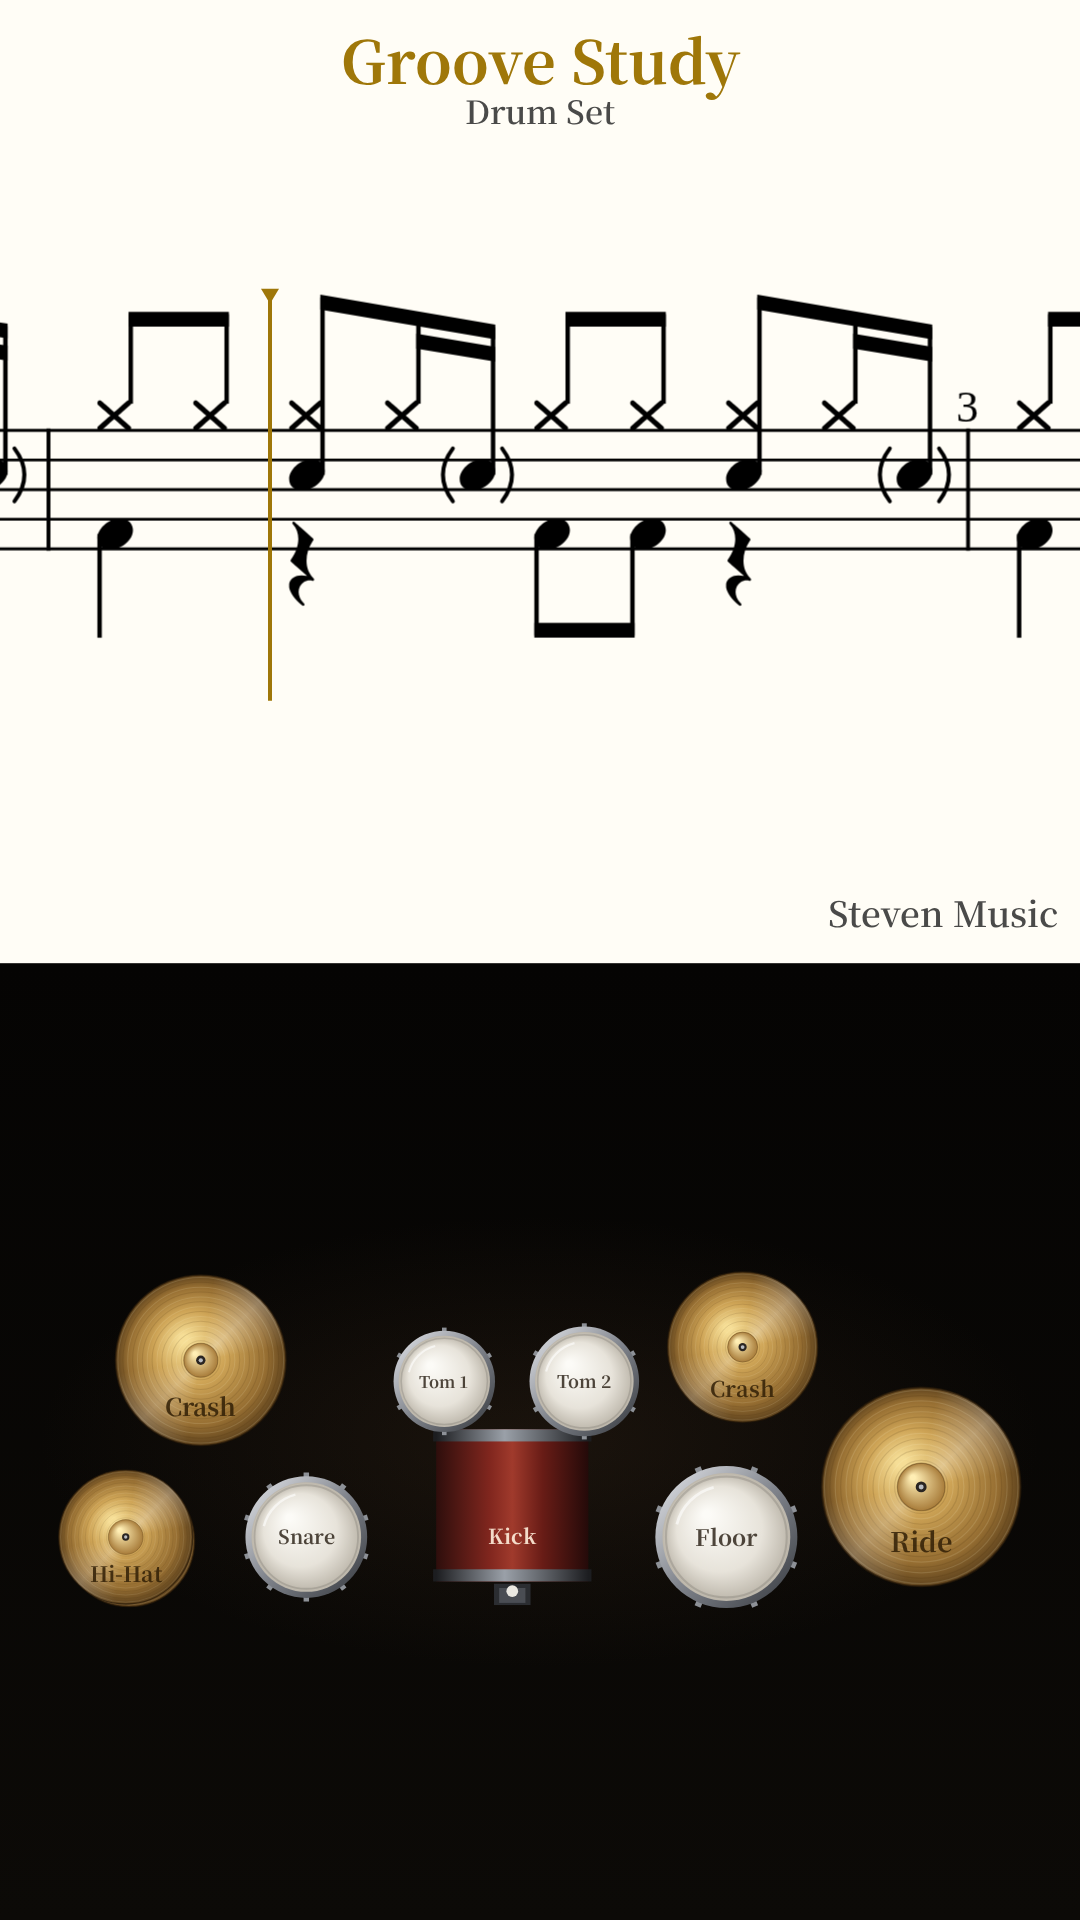
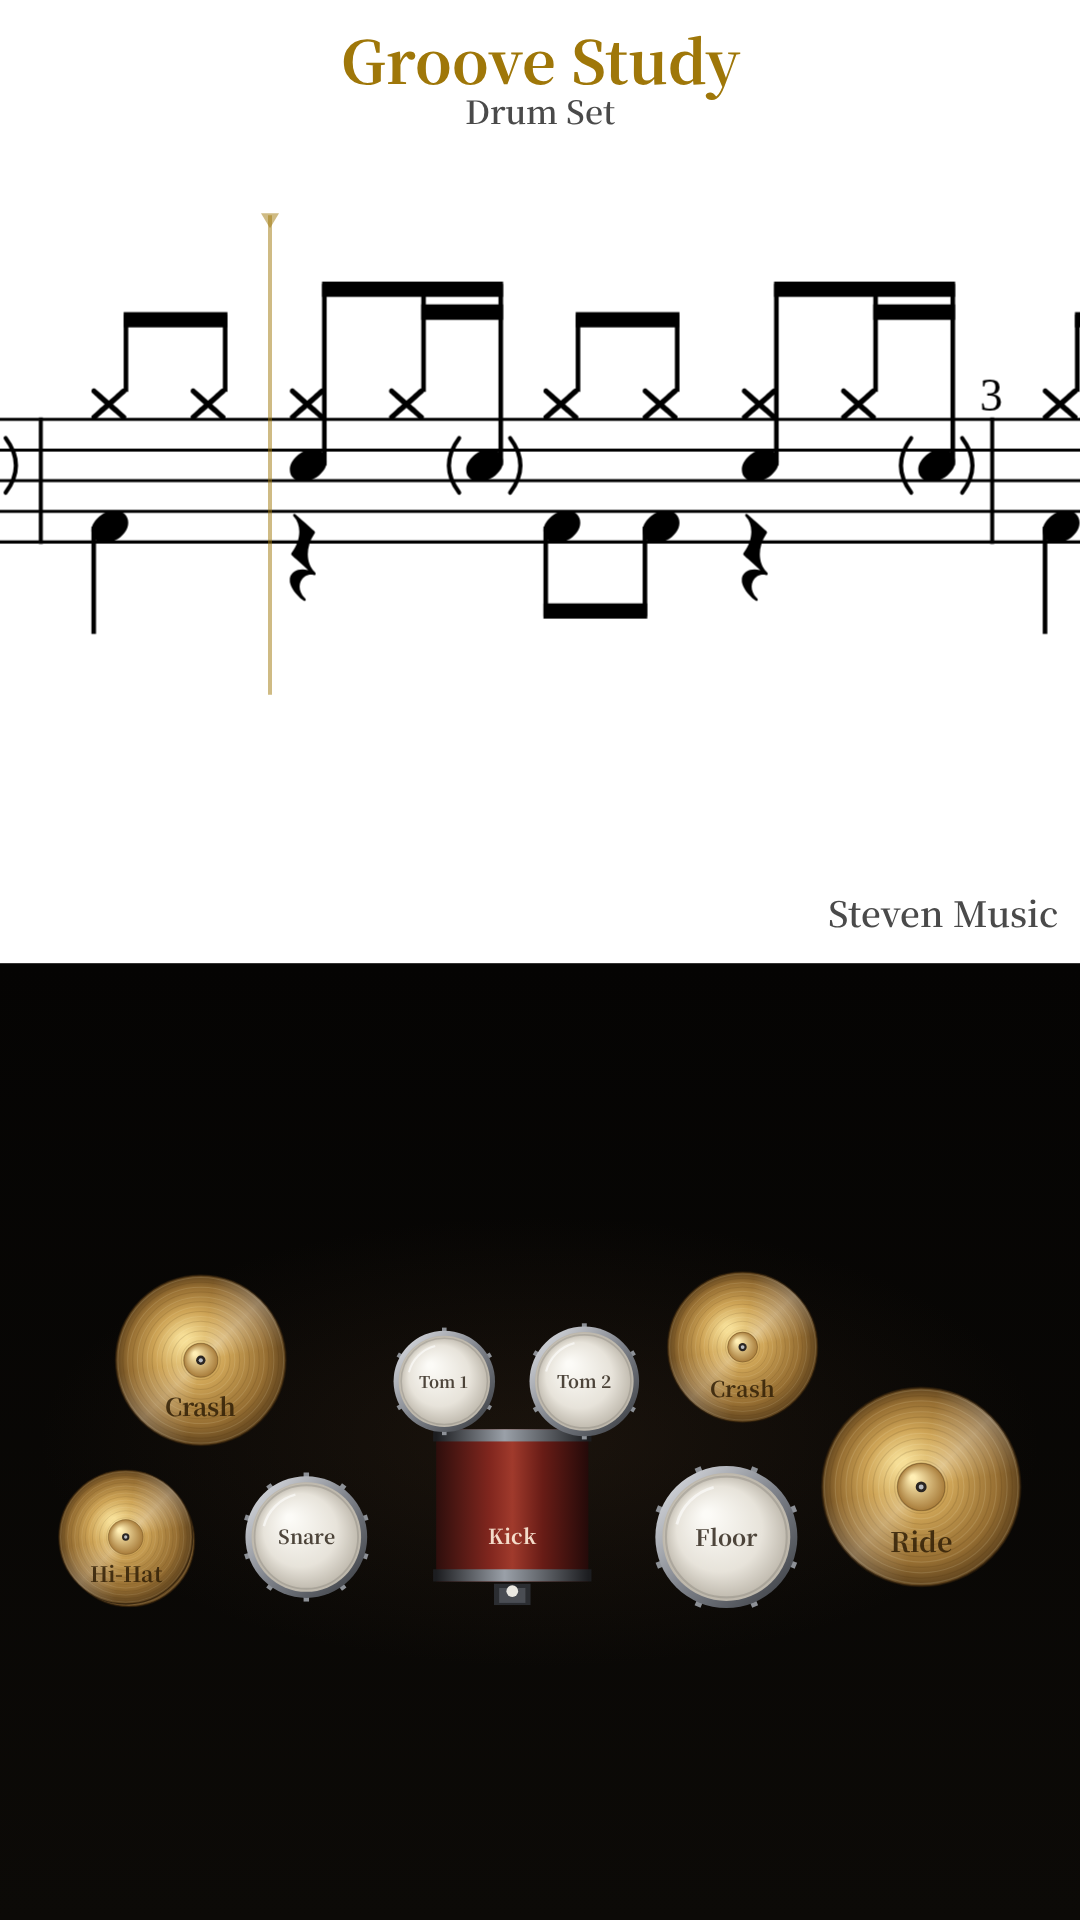
宣傳影片:第 03 段拿掉吉他(仍找不到夠好的木吉他音色),只留鋼琴與鼓組;依 app 最新版重新產生匯出示意圖
- 匯出示意圖重新產生:鼓譜匯出純白底、播放軸半透明、播放軸長度依最高最低音
- render.mjs 的暫存資料夾與 ffmpeg 路徑改用環境變數 SP、FF 指定
- vidprev.mjs 改用標準兩聲部的 groove_dyn2.musicxml

Claude-Session: https://claude.ai/code/session_01XMEXKfnCC2JVpUX2wQrpCB

Changed region(s): [[0.0, 0.125, 1.0, 0.3438]]

diff --git a/video/comp.js b/video/comp.js
@@ -160,11 +160,9 @@ scene(12, (el, s) => {
 
 /* 4. Real instruments */
 scene(12, (el, s) => {
-  const tb = titleBlock(el, 0, 70, '03 · 真實樂器音色', '真實錄音取樣，不是電子合成音', 'Piano · Steel-string guitar · Nylon guitar · Drum kit', { w: 1920, align: 'center' });
+  const tb = titleBlock(el, 0, 70, '03 · 真實樂器音色', '真實錄音取樣，不是電子合成音', 'Piano · Drum kit', { w: 1920, align: 'center' });
   const items = [
     [ICON.piano, '鋼琴', 'Yamaha C5 平台鋼琴', '16 層力度・弦共鳴・踏板聲'],
-    [ICON.guitar, '民謠吉他', '鋼弦木吉他', '真實錄音取樣'],
-    [ICON.guitar, '古典吉他', '尼龍弦', '真實錄音取樣'],
     [ICON.drum, '鼓組', 'Naked Drums', '全部力度層・輪替取樣'],
   ];
   const cards = items.map(([ic, n, a, b], i) => {
@@ -179,11 +177,12 @@ scene(12, (el, s) => {
     const shrink = eIO(seg(lt, 5.6, 6.6));
     cards.forEach((c, i) => {
       const p = seg(lt, 0.5 + i * 0.18, 1.2 + i * 0.18);
-      const x0 = 120 + i * 430, y0 = 380, x1 = 60 + (i % 2) * 0 + (i < 2 ? 0 : 1520), y1 = 330 + (i % 2) * 330;
+      // 兩張卡(鋼琴、鼓組;吉他找不到夠好的音色已拿掉):先置中並排,筆電出現時分到左右兩側
+      const x0 = 555 + i * 430, y0 = 380, x1 = i === 0 ? 60 : 1520, y1 = 560;
       const sc = lerp(1, 0.86, shrink);
       css(c, { left: lerp(x0, x1, shrink) + 'px', top: lerp(y0, y1, shrink) + 'px', opacity: eOut(p), transform: `translateY(${(1 - eOut(p)) * 60}px) scale(${sc})`, transformOrigin: '0 0' });
       // glow pulse on the drum card while the drum kit plays
-      c.style.borderColor = (i === 3 && lt > 6.6) ? `rgba(214,178,94,${0.4 + 0.4 * Math.abs(Math.sin(lt * 3.4))})` : '';
+      c.style.borderColor = (i === 1 && lt > 6.6) ? `rgba(214,178,94,${0.4 + 0.4 * Math.abs(Math.sin(lt * 3.4))})` : '';
     });
     const lp = eOut(seg(lt, 6.2, 7.0)); css(lap.wrap, { opacity: lp, transform: `translateY(${(1 - lp) * 80}px)` });
     appAt('drum', 0.5 + Math.max(0, lt - 6.2));

diff --git a/README.md b/README.md
@@ -6,12 +6,12 @@
 - `video/comp.html` + `video/comp.js`：11 段 motion graphics（總長 100.03 秒），`window.setTime(t)` 是純時間函數。
 - `video/render.mjs`：Playwright 開 comp.html（1920×1080、deviceScaleFactor 2 → 3840×2160），逐格截圖 pipe 給 ffmpeg。
   - `node render.mjs still <t1,t2,...> <dsf>` 輸出靜態畫面；`node render.mjs seg <f0> <f1> <out.mp4>` 輸出某段影格（30fps）。
-  - 檔案裡的 `SP`（暫存資料夾路徑）、ffmpeg 路徑要依新環境修改。
+  - 暫存資料夾路徑、ffmpeg 路徑用環境變數 `SP`、`FF` 指定（例如 `SP=/path/to/sp node render.mjs ...`）。
   - 需要本機 http server（port 8767），根目錄底下要有 `app/`（指向 ScrollScore repo）、`video/`、`sp/`（放 vid_export_*.png、樂譜）。
   - OSMD 2.0.0、jszip 3.10.1 從 npm 下載後由 render.mjs 本機供應；鋼琴/鼓的 FLAC 會被擋掉（只要畫面）。
 - `video/fonts/` 沒放進來（29MB），從 Google Fonts 重新下載：Noto Sans TC、Noto Serif TC、Inter（可變字重 TTF），檔名 NotoSansTC.ttf / NotoSerifTC.ttf / Inter.ttf。
 - `video/music.mp3`：Mixkit #173〈Better Times are Coming〉（可商用、免標示）。混音：開頭 0.3 秒淡入、98.3 秒起 1.7 秒淡出。
-- `video/vidprev.mjs`：產生匯出畫面示意圖 vid_export_16x9 / 9x16 / 1x1.png。
+- `video/vidprev.mjs`：產生匯出畫面示意圖 vid_export_16x9 / 9x16 / 1x1.png（在 sp/ 底下執行；畫面直接取自 app，app 改版後要重新產生，例如鼓譜匯出純白底、半透明播放軸）。
 - 輸出：4K H.264 原檔約 100MB；傳送版用 HEVC（libx265 crf 24, hvc1）約 21MB，另有 1080p 約 16MB。
 - 結尾比照 HarmonyMap：ScrollScore（Scroll 象牙白、Score 金色）、捲動樂譜播放器、email、© 2026 Steven Tsai，不放網址。
 - 開頭五線譜音符符桿依樂理：中線以上（含中線）朝下畫在左側、以下朝上畫在右側，長 3.5 個間距。
@@ -24,3 +24,6 @@
 - `zipls.py <url> <out.json>`：用 HTTP Range 讀遠端 zip 的目錄（不用下載整個檔案）。
 - `zipget.py <url> <index.json> <regex> <outdir>`：只抽出符合的檔案。
 - `measure.py` / `demo.py`：取樣的底噪、明亮度、延音、音準分析，與試聽檔產生。
+
+## 改版紀錄
+- 2026-10-02：第 03 段「真實樂器音色」拿掉民謠吉他、古典吉他（重新找過仍沒有每個音都有錄音、可商用、品質夠好的木吉他音色；app 裡吉他也維持停用），只留鋼琴、鼓組兩張卡。依 app 最新版重新產生匯出示意圖並重新輸出影片（播放軸半透明、鼓譜匯出純白底、播放軸長度依最高最低音）。
